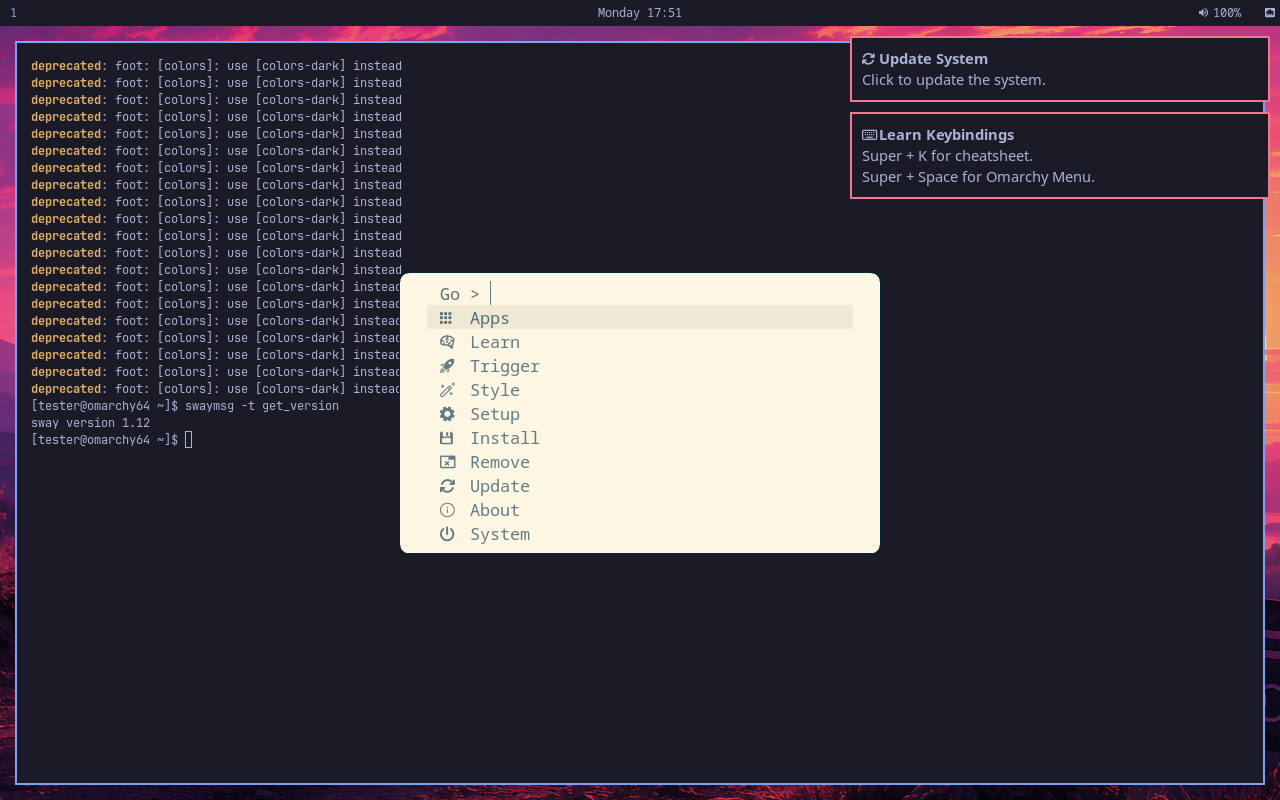
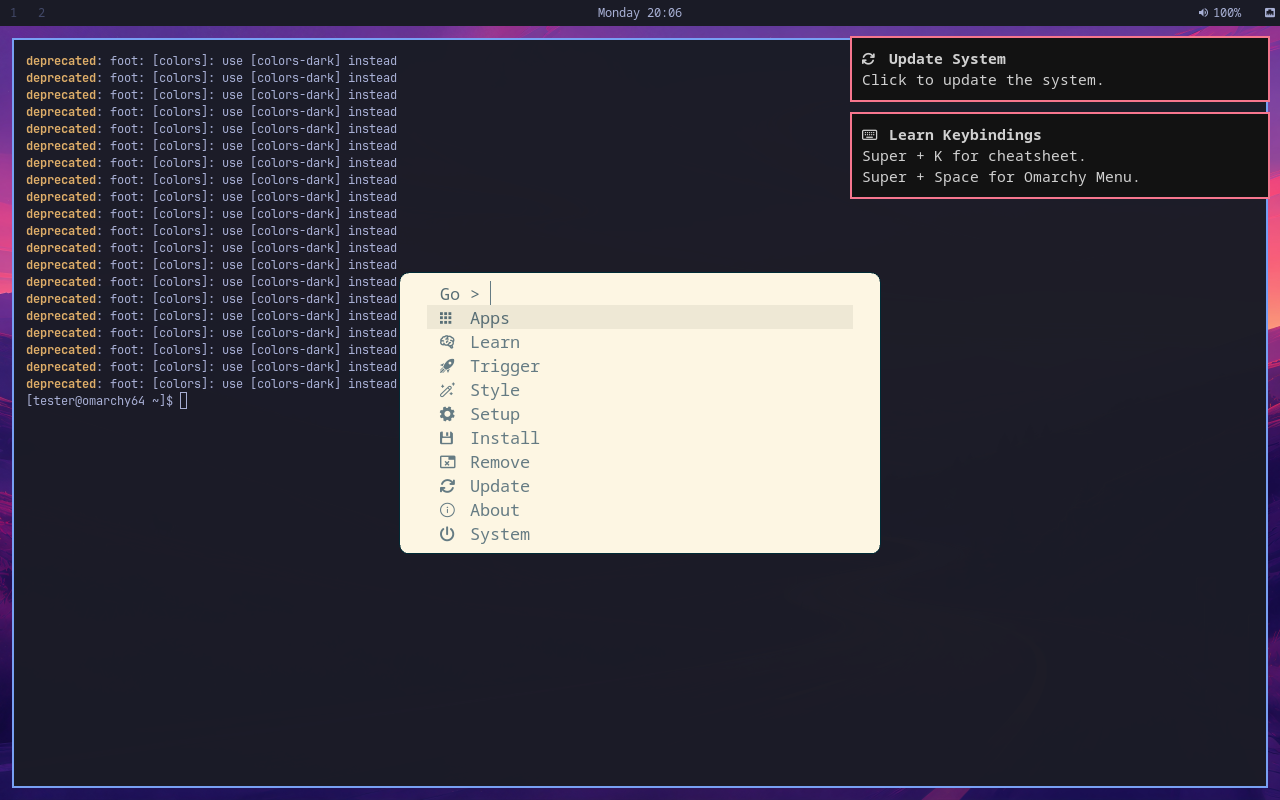
Record the x86_64 Hyprland validation
The runbook and release notes both carried a banner saying every
session-level result was obtained with sway and had to be obtained again.
It has now been obtained again on x86_64, so the banners say what was
actually run instead of warning about what was not.

What the validation covers is written out rather than summarised as
"works", because one of these checks is easy to get wrong: mesa's llvmpipe
can supply GLES 3.0 in software, so a desktop that renders inside a VM is
not evidence the pixman renderer was chosen. hyprctl systeminfo naming
"pixman (software)" is. The runbook now says to ask that question, and
notes that Hyprland's own log file is empty by default
(debug:disable_logs), which is otherwise a confusing dead end.

Troubleshooting picks up the greeter-menu trap from the previous commit,
and the two WLR_RENDERER entries are gone: that is a wlroots variable and
it never did anything under Hyprland. The GPU escape hatch is now the
accurate one - drop HYPRLAND_RENDERER and AQ_FORCE_ALLOCATOR.

docs/pixman-renderer/x86_64-vm.png is replaced with the Hyprland session:
same VM, same no-GPU framebuffer, now with waybar's hyprland/workspaces
module and the menu on Super+Space.

Changed region(s): [[0.0, 0.0, 1.0, 1.0], [0.6562, 0.1562, 0.875, 0.25]]

diff --git a/docs/runbooks/install-x86_64.md b/docs/runbooks/install-x86_64.md
@@ -6,7 +6,7 @@ Read [`../../TESTING.md`](../../TESTING.md) first. It says what is known broken 
 
 Status: rehearsed end to end on 2026-08-31 in a QEMU VM with no GPU - the build below booted to a themed desktop with a working menu and terminal. Nobody has run it on real x86_64 hardware yet. That is what we are asking for. See "What was verified" at the end for exactly what that covers.
 
-**Mid-migration warning.** That rehearsal ran the sway session this fork used before the pixman renderer for Hyprland existed. sway is now deleted and the session is upstream Hyprland on the pixman renderer, so step 9 below is new and the rehearsal has not been repeated. Expect to debug.
+The rehearsal was originally run against the sway session this fork used before the pixman renderer for Hyprland existed. sway is now deleted, and the rehearsal was **repeated end to end on the Hyprland session on 2026-08-31**, from a root built by these steps. What that covers is in "What was verified" at the end.
 
 ## What differs from the i686 MacBook path
 
@@ -176,13 +176,22 @@ Verified on 2026-08-31 against official Arch x86_64 (`core` and `extra` from `ge
 
 The renderer is worth restating: that is a full desktop drawn with the CPU, on a `-vga std` bochs framebuffer with no GPU acceleration available at all.
 
-Everything in this section was verified with the sway session, before the compositor swap. The package list, the boot chain, `omarchy-apply-system` and `omarchy-refresh-grub` are unaffected by that swap; the session itself has to be rerun.
+Re-verified on the Hyprland session on 2026-08-31, on the same bench and the same no-KVM TCG VM:
+
+- **greetd starts the session itself.** `initial_session` autologs the install user in and the desktop comes up with no hand-launching; `journalctl -b -u greetd` shows one `session opened for user`. The process tree is `start-hyprland` → `Hyprland --watchdog-fd 4`.
+- **The pixman renderer is the one running.** `hyprctl systeminfo` reports `Renderer: pixman (software)` and `Backend: drm` on `Virtual-1 1280x800`. This is worth checking rather than assuming: mesa's llvmpipe can supply GLES 3.0 in software, so a session that merely *renders* in a VM is not proof the CPU renderer was selected.
+- **The session shell comes up**: waybar (with the `hyprland/workspaces` and `hyprland/submap` modules loading cleanly), mako, swaybg and swayidle.
+- **The Lua config layer loads**: 414 keybindings, and waybar reserves its 26px at the top of the monitor.
+- **Real key events work**, sent to the guest rather than dispatched over IPC: `Super+Return` opens foot, `Super+Space` opens the Omarchy menu, `Super+2` switches workspace and waybar follows.
+- **Theme switching retints Hyprland.** `omarchy-theme-set Gruvbox` moves `general:col.active_border` from `ff7aa2f7` to `ff7daea3`, and the theme survives a reboot.
+
+The package list, the boot chain, `omarchy-apply-system` and `omarchy-refresh-grub` were unaffected by the compositor swap and were re-run anyway as part of this.
 
 Not verified, and the reason this runbook exists:
 
 - **No real x86_64 hardware.** Nothing here says anything about real graphics, wifi, audio, battery, suspend, brightness or a real display panel.
 - **The steps as printed were not run as printed.** The VM was built by scripting the same operations against a mounted disk image rather than by typing them at an Arch ISO prompt. The commands are the same; the sequencing of a live install is not something this proves.
-- **The GLES2 renderer.** The session forces pixman. Nobody has run `WLR_RENDERER=gles2` on hardware that could accelerate it.
+- **The GL renderer.** The session forces pixman. Nobody has run Hyprland's GL renderer here on hardware that could accelerate it.
 
 Two known cosmetic issues on this path, both already understood:
 
@@ -191,8 +200,9 @@ Two known cosmetic issues on this path, both already understood:
 
 ## Troubleshooting
 
-- **Black screen after greetd.** Confirm the renderer with `env | grep WLR_` inside the session, and check `dmesg | grep -i drm` for KMS errors. `journalctl -b -u greetd` has the login side.
+- **Black screen after greetd.** Ask the compositor what it picked: `hyprctl systeminfo | grep Renderer` should say `pixman (software)`. If it says anything else, the session did not get `HYPRLAND_RENDERER=pixman` - check `tr '\0' '\n' < /proc/$(pgrep -x Hyprland)/environ | grep -E 'HYPRLAND_RENDERER|AQ_'`. Then `dmesg | grep -i drm` for KMS errors; `journalctl -b -u greetd` has the login side. Note that Hyprland's own log at `$XDG_RUNTIME_DIR/hypr/<sig>/hyprland.log` is empty by default, because `debug:disable_logs` is on; `hyprctl systeminfo` is the reliable question to ask.
+- **A session you picked from the greeter menu gives a black screen.** The Hyprland build installs `hyprland.desktop` and `hyprland-uwsm.desktop` into `/usr/local/share/wayland-sessions/`, and neither sets the pixman renderer. The entry that works is `Omarchy`, at `/usr/share/wayland-sessions/omarchy.desktop`. Delete upstream's two if you do not want them offered.
 - **greetd shows the text greeter instead of autologging in.** `initial_session` runs once per boot; that is greetd semantics. A `systemctl restart greetd` always lands on tuigreet. Reboot, or log in through it.
-- **You want to try the GPU.** The session forces `WLR_RENDERER=pixman` for the MacBook's sake. On real hardware `WLR_RENDERER=gles2` should be hardware-accelerated and faster, and nobody has tested it. Please do, and report it - see "The renderer question" in TESTING.md.
+- **You want to try the GPU.** The session forces `HYPRLAND_RENDERER=pixman` for the MacBook's sake. On real hardware, dropping that variable (and `AQ_FORCE_ALLOCATOR=dumb` with it) gives you Hyprland's normal GL path, which should be accelerated and faster, and nobody has tested it. Please do, and report it - see "The renderer question" in TESTING.md.
 - **`pacman` wants to replace your pacman.conf.** It will not. The archlinux32 configs in `default/pacman/` are only applied when `uname -m` reports i686; on anything else the installer leaves your `/etc/pacman.conf` and mirrorlist alone.
 - **Screen sharing fails.** Permanent under the pixman renderer, on every architecture. Not a bug.

diff --git a/docs/RELEASE-NOTES.md b/docs/RELEASE-NOTES.md
@@ -11,7 +11,18 @@ or any real hardware at all.
 
 **The compositor changed after those validations.** See "Hyprland
 replaces sway" immediately below: every session-level result recorded
-further down was obtained with sway and has to be obtained again.
+further down was obtained with sway.
+
+**Re-obtained on Hyprland for x86_64 on 2026-08-31.** A VM installed from
+this tree by the x86_64 runbook boots, greetd starts the session itself,
+and `hyprctl systeminfo` reports `Renderer: pixman (software)` on the DRM
+backend against a `-vga std` framebuffer with no GPU. waybar, mako,
+swaybg and swayidle come up, 414 keybindings load, Super+Return opens a
+terminal, Super+Space opens the Omarchy menu, and switching themes
+retints Hyprland's own borders. Screenshot:
+`docs/pixman-renderer/x86_64-vm.png`. The i686 session is the same
+exercise on the harder architecture and has not been run yet; nothing
+below about i686 or real hardware has changed.
 
 The CPU-only core is architecture-independent, and x86_64 is where most
 testing will happen: see `TESTING.md` and
